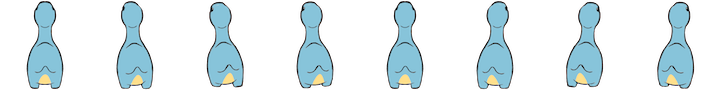
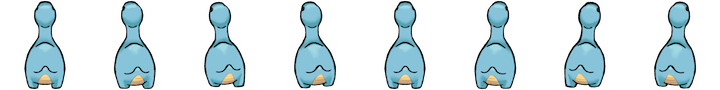
Added herbivore shadows and new spritesheets

diff --git a/core/src/tiktaalik/trino/GameController.java b/core/src/tiktaalik/trino/GameController.java
@@ -66,8 +66,10 @@ public class GameController implements ContactListener, Screen {
 	private static final String HERBIVORE_STRIP_LEFT  = "trino/herbivore_left_strip.png";
 	private static final String HERBIVORE_STRIP_RIGHT  = "trino/herbivore_right_strip.png";
 	private static final String HERBIVORE_STRIP_BACK  = "trino/herbivore_back_strip.png";
+	private static final String HERBIVORE_EATING_STRIP_FRONT  = "trino/herbivore_front_eating_strip.png";
 	private static final String HERBIVORE_EATING_STRIP_LEFT  = "trino/herbivore_left_eating_strip.png";
 	private static final String HERBIVORE_EATING_STRIP_RIGHT  = "trino/herbivore_right_eating_strip.png";
+	private static final String HERBIVORE_EATING_STRIP_BACK = "trino/herbivore_back_eating_strip.png";
 	private static final String CARNIVORE_STRIP_FRONT  = "trino/carnivore_front_strip.png";
 	private static final String CARNIVORE_STRIP_LEFT  = "trino/carnivore_left_strip.png";
 	private static final String CARNIVORE_STRIP_RIGHT  = "trino/carnivore_right_strip.png";
@@ -255,10 +257,14 @@ public class GameController implements ContactListener, Screen {
 		assets.add(HERBIVORE_STRIP_FRONT);
 		manager.load(HERBIVORE_STRIP_BACK, Texture.class);
 		assets.add(HERBIVORE_STRIP_BACK);
+		manager.load(HERBIVORE_EATING_STRIP_FRONT, Texture.class);
+		assets.add(HERBIVORE_EATING_STRIP_FRONT);
 		manager.load(HERBIVORE_EATING_STRIP_LEFT, Texture.class);
 		assets.add(HERBIVORE_EATING_STRIP_LEFT);
 		manager.load(HERBIVORE_EATING_STRIP_RIGHT, Texture.class);
 		assets.add(HERBIVORE_EATING_STRIP_RIGHT);
+		manager.load(HERBIVORE_EATING_STRIP_BACK, Texture.class);
+		assets.add(HERBIVORE_EATING_STRIP_BACK);
 		manager.load(CARNIVORE_STRIP_LEFT, Texture.class);
 		assets.add(CARNIVORE_STRIP_LEFT);
 		manager.load(CARNIVORE_STRIP_RIGHT, Texture.class);
@@ -434,8 +440,8 @@ public class GameController implements ContactListener, Screen {
 		filmStripDict.put("herbivoreBack", createFilmTexture(manager,HERBIVORE_STRIP_BACK));
 		filmStripDict.put("herbivoreEatingLeft", createFilmTexture(manager,HERBIVORE_EATING_STRIP_LEFT));
 		filmStripDict.put("herbivoreEatingRight", createFilmTexture(manager,HERBIVORE_EATING_STRIP_RIGHT));
-		filmStripDict.put("herbivoreEatingFront", createFilmTexture(manager,DOLL_EATING_STRIP_FRONT));
-		filmStripDict.put("herbivoreEatingBack", createFilmTexture(manager,DOLL_EATING_STRIP_BACK));
+		filmStripDict.put("herbivoreEatingFront", createFilmTexture(manager,HERBIVORE_EATING_STRIP_FRONT));
+		filmStripDict.put("herbivoreEatingBack", createFilmTexture(manager,HERBIVORE_EATING_STRIP_BACK));
 		filmStripDict.put("enemyLeft", createFilmTexture(manager,ENEMY_STRIP_LEFT));
 		filmStripDict.put("enemyRight", createFilmTexture(manager,ENEMY_STRIP_RIGHT));
 		filmStripDict.put("enemyFront", createFilmTexture(manager,ENEMY_STRIP_FRONT));
@@ -1222,7 +1228,8 @@ public class GameController implements ContactListener, Screen {
 			}
 
 			if (InputHandler.getInstance().didTransform()) {
-				if (avatar.canTransform()) {
+//				if (avatar.canTransform()) {
+				if (true) {
 					if (InputHandler.getInstance().didTransformDoll() &&
 							avatar.getForm() != Dinosaur.DOLL_FORM) {
 
@@ -1267,8 +1274,8 @@ public class GameController implements ContactListener, Screen {
 								filmStripDict.get("herbivoreFront"), 8);
 						avatar.setEatingTextureSet(filmStripDict.get("herbivoreEatingLeft"), 10,
 								filmStripDict.get("herbivoreEatingRight"), 10,
-								filmStripDict.get("herbivoreEatingBack"), 7,
-								filmStripDict.get("herbivoreEatingFront"), 7);
+								filmStripDict.get("herbivoreEatingBack"), 10,
+								filmStripDict.get("herbivoreEatingFront"), 10);
 
 						level.setAvatar(avatar);
 

diff --git a/core/src/tiktaalik/trino/duggi/Herbivore.java b/core/src/tiktaalik/trino/duggi/Herbivore.java
@@ -1,23 +1,25 @@
 package tiktaalik.trino.duggi;
 
-import com.badlogic.gdx.graphics.Color;
 import com.badlogic.gdx.physics.box2d.PolygonShape;
 import tiktaalik.trino.Canvas;
 
 public class Herbivore extends Dinosaur {
     protected boolean actionLoop = false;
+    private boolean upDown = false;
+    private float vertices[] = new float[16];
 
     public Herbivore(Dinosaur d) {
         super(d);
+        upDown = false;
         shape = new PolygonShape();
-        float vertices[] = new float[16];
+
         int ctr = 0;
         for (float theta = 0; theta < 2 * Math.PI; theta += ((2.0f * Math.PI)/(vertices.length / 2))) {
             if (ctr >= 16)
                 break;
 
-            vertices[ctr++] = (float)(radius * Math.cos(theta) * .85); // x
-            vertices[ctr++] = (float)(-radius * Math.sin(theta) * .5) - radius/4; // y
+            vertices[ctr++] = (float)(radius * Math.cos(theta)); // x
+            vertices[ctr++] = (float)(-radius * Math.sin(theta) * .5) - radius/4 - 0.3f; // y
         }
         shape.set(vertices);
 
@@ -32,6 +34,55 @@ public class Herbivore extends Dinosaur {
 
     protected boolean loopAction() {
         return false;
+    }
+
+    public void update(float dt) {
+        super.update(dt);
+
+        if (direction == UP || direction == DOWN) {
+            if (!upDown) {
+                upDown = true;
+
+                int ctr = 0;
+                for (float theta = 0; theta < 2 * Math.PI; theta += ((2.0f * Math.PI)/(vertices.length / 2))) {
+                    if (ctr >= 16)
+                        break;
+
+                    vertices[ctr++] = (float)(radius * Math.cos(theta) * .75); // x
+                    vertices[ctr++] = (float)(radius * Math.sin(theta) * .5) - radius/4; // y
+                }
+                shape.set(vertices);
+
+                body.destroyFixture(body.getFixtureList().first());
+                fixture.shape = shape;
+                body.createFixture(fixture);
+            }
+        } else {
+            if (upDown) {
+                upDown = false;
+
+                int ctr = 0;
+                for (float theta = 0; theta < 2 * Math.PI; theta += ((2.0f * Math.PI)/(vertices.length / 2))) {
+                    if (ctr >= 16)
+                        break;
+
+                    vertices[ctr++] = (float)(radius * Math.cos(theta)); // x
+                    vertices[ctr++] = (float)(-radius * Math.sin(theta) * .5) - radius/4 - 0.3f; // y
+                }
+                shape.set(vertices);
+
+                body.destroyFixture(body.getFixtureList().first());
+                fixture.shape = shape;
+                body.createFixture(fixture);
+            }
+        }
+    }
+
+    public void drawShadow(Canvas canvas) {
+        if (upDown)
+            canvas.drawShadow(getX()*drawScale.x,getY()*drawScale.x + 8,1.4f*radius*drawScale.x, 1.6f*radius*drawScale.x);
+        else
+            canvas.drawShadow(getX()*drawScale.x,getY()*drawScale.x - 6,2*radius*drawScale.x, radius*drawScale.x);
     }
 
     public void draw(Canvas canvas) {

diff --git a/core/src/tiktaalik/trino/duggi/Carnivore.java b/core/src/tiktaalik/trino/duggi/Carnivore.java
@@ -17,8 +17,8 @@ public class Carnivore extends Dinosaur {
             if (ctr >= 16)
                 break;
 
-            vertices[ctr++] = (float)(radius * Math.cos(theta) * .78); // x
-            vertices[ctr++] = (float)(-radius * Math.sin(theta) * .28) - radius/4; // y
+            vertices[ctr++] = (float)(radius * 1.4 * Math.cos(theta) * .78); // x
+            vertices[ctr++] = (float)(-radius * 1.4 * Math.sin(theta) * .28) - radius/4; // y
         }
         shape.set(vertices);
 
@@ -64,7 +64,7 @@ public class Carnivore extends Dinosaur {
     }
 
     public void drawShadow(Canvas canvas) {
-        canvas.drawShadow(getX()*drawScale.x,getY()*drawScale.x,2*radius*drawScale.x*.75f, radius*drawScale.x);
+        canvas.drawShadow(getX()*drawScale.x,getY()*drawScale.x,2*radius*1.4f*drawScale.x*.75f, radius*1.4f*drawScale.x);
     }
 
     public void draw(Canvas canvas) {
